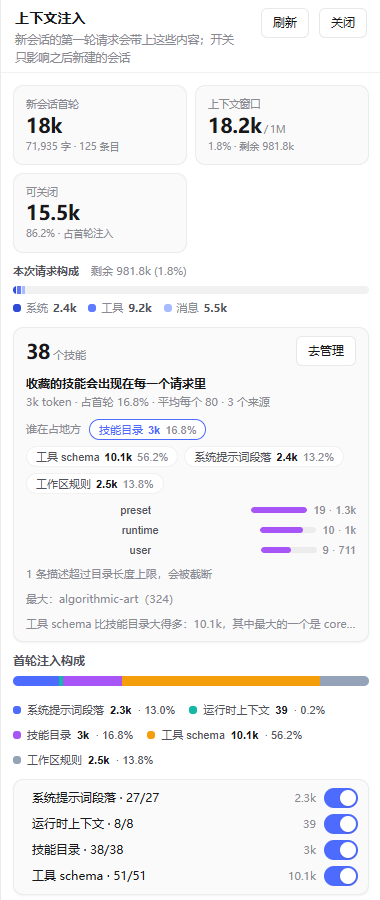
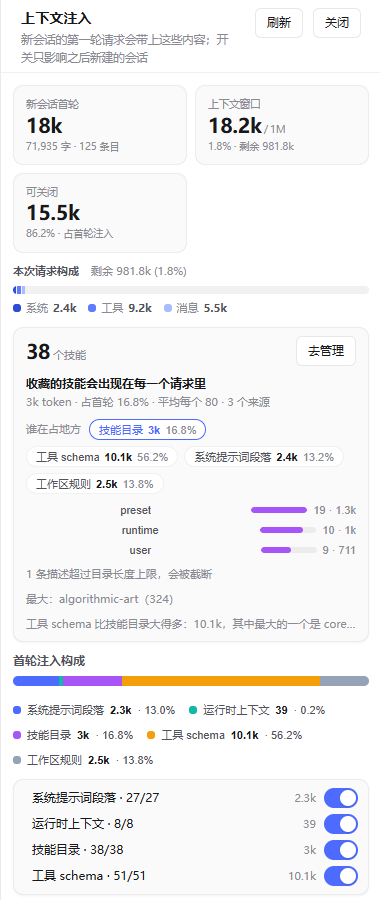
style(ui): 阅读列 1240 上限、标签行呼吸、说明列收窄 (2.2.4)
[dsh:session=cd521c01] [dida:6afcf57ae4b014475ea3a12a]

Changed region(s): [[0.0289, 0.0, 0.6079, 0.0933], [0.6947, 0.0, 0.7816, 0.0311], [0.8684, 0.0, 0.9263, 0.0311]]

diff --git a/client.js b/client.js
@@ -337,7 +337,7 @@ body[data-ds-dark-theme] .ci-root{--ci-fg:#ececf1;--ci-fg2:#b9b9c3;--ci-fg3:#8b8
 .ci-scroll{overflow:auto;min-height:0}
 .ci-scroll::-webkit-scrollbar{width:8px;height:8px}
 .ci-scroll::-webkit-scrollbar-thumb{background:var(--ci-line);border-radius:8px}
-.ci-head{display:flex;align-items:flex-start;gap:10px;padding:8px 14px 6px;border-bottom:1px solid var(--ci-line2);flex:0 0 auto}
+.ci-head{display:flex;align-items:flex-start;gap:10px;padding:8px 20px 6px;border-bottom:1px solid var(--ci-line2);flex:0 0 auto}
 .ci-head h1{font-size:14px;font-weight:600;margin:0;letter-spacing:.01em}
 .ci-head p{margin:1px 0 0;color:var(--ci-fg3);font-size:11.5px}
 .ci-head .ci-spacer{flex:1}
@@ -455,7 +455,11 @@ body[data-ds-dark-theme] .ci-root{--ci-fg:#ececf1;--ci-fg2:#b9b9c3;--ci-fg3:#8b8
 .ci-legend button{display:flex;align-items:center;gap:6px;border:0;background:transparent;color:var(--ci-fg2);font-size:11px;cursor:pointer;padding:2px 0}
 .ci-legend i{width:8px;height:8px;border-radius:3px;display:block}
 .ci-legend b{color:var(--ci-fg);font-weight:600}
-.ci-tabs{display:inline-flex;gap:2px;padding:2px;border:1px solid var(--ci-line2);background:var(--ci-card);border-radius:8px;align-self:flex-start;margin:0 20px 10px;flex:0 0 auto}
+.ci-tabs{display:inline-flex;gap:2px;padding:2px;border:1px solid var(--ci-line2);background:var(--ci-card);border-radius:8px;align-self:flex-start;margin:9px 20px 12px;flex:0 0 auto}
+/* one reading column: header, tabs and body share the same width and the same
+   20px edge, and stop growing at 1240px so a wide window does not stretch the
+   table into the window corners */
+.ci-shell{display:flex;flex-direction:column;flex:1 1 auto;min-height:0;min-width:0;width:100%;max-width:1240px;margin:0 auto}
 .ci-tabs button{border:0;background:transparent;color:var(--ci-fg2);padding:5px 13px;font-size:12px;cursor:pointer;border-radius:6px;line-height:1.6}
 .ci-tabs button:hover{color:var(--ci-fg)}
 .ci-tabs button.on{background:var(--ci-bg);color:var(--ci-fg);font-weight:600;box-shadow:0 1px 2px rgba(0,0,0,.07)}
@@ -851,10 +855,12 @@ body[data-ds-dark-theme] .ci-root{
 .ci-kpi .v{display:flex;align-items:baseline;gap:var(--ci-space-1);min-width:0}
 .ci-kpi .v .u{font-size:var(--ci-fs-micro);font-weight:500;color:var(--ci-fg3);letter-spacing:0}
 .ci-kpi-num{display:inline-flex;align-items:baseline;gap:var(--ci-space-1)}
-/* Items table gains a description column only when the panel is wide (#5) */
+/* Items table gains a description column only when the panel is wide (#5).
+   The description is capped: an uncapped fr column grew into a 500px empty
+   band on a wide window, which read as "the table is too wide". */
 .ci-about{display:none}
 @container (min-width:1100px){
-  .ci-thead,.ci-row{grid-template-columns:minmax(0,1.6fr) minmax(0,1.2fr) 96px 72px 58px 52px}
+  .ci-thead,.ci-row{grid-template-columns:minmax(0,1fr) 250px 110px 84px 64px 56px}
   .ci-about{display:block;font-size:12px;color:var(--ci-fg3);overflow:hidden;text-overflow:ellipsis;white-space:nowrap;min-width:0}
   .ci-row:hover .ci-about{color:var(--ci-fg2)}
 }
@@ -4608,78 +4614,82 @@ body[data-ds-dark-theme] .ci-root{
           'div',
           { className: 'ci-root' },
           h('style', null, STYLE),
-          head,
-          h(
-            'div',
-            { className: 'ci-tabs', role: 'tablist', 'aria-label': t('v2.tabsLabel') },
-            (v2 === true
-              ? [
-                  ['manage', t('tabManage'), t('v2.tabManageHint')],
-                  ['insights', t('v2.tabInsights'), t('v2.tabInsightsHint')],
-                  ['settings', t('tabSettings'), t('v2.tabSettingsHint')],
-                ]
-              : [
-                  ['manage', t('tabManage'), t('v2.tabManageHint')],
-                  ['settings', t('tabSettings'), t('v2.tabSettingsHint')],
-                ]
-            ).map(([key, label, hint]) =>
-              h(
-                'button',
-                {
-                  key,
-                  type: 'button',
-                  role: 'tab',
-                  id: 'ci-tab-' + key,
-                  'aria-selected': activeTab === key ? 'true' : 'false',
-                  'aria-controls': 'ci-tabpanel-' + key,
-                  tabIndex: activeTab === key ? 0 : -1,
-                  className: activeTab === key ? 'on' : '',
-                  title: hint,
-                  onClick: () => setTab(key),
-                  onKeyDown: (event) => {
-                    if (event.key !== 'ArrowRight' && event.key !== 'ArrowLeft') return
-                    const keys = v2 === true ? ['manage', 'insights', 'settings'] : ['manage', 'settings']
-                    const index = keys.indexOf(activeTab)
-                    const next = keys[(index + (event.key === 'ArrowRight' ? 1 : keys.length - 1)) % keys.length]
-                    event.preventDefault()
-                    setTab(next)
-                    const node = document.getElementById('ci-tab-' + next)
-                    if (node && typeof node.focus === 'function') node.focus()
+          // Everything that shares the reading column lives in one shell:
+          // header, tabs, page body. Capped so a very wide window does not
+          // stretch the table to the window edge.
+          h('div', { className: 'ci-shell' },
+            head,
+            h(
+              'div',
+              { className: 'ci-tabs', role: 'tablist', 'aria-label': t('v2.tabsLabel') },
+              (v2 === true
+                ? [
+                    ['manage', t('tabManage'), t('v2.tabManageHint')],
+                    ['insights', t('v2.tabInsights'), t('v2.tabInsightsHint')],
+                    ['settings', t('tabSettings'), t('v2.tabSettingsHint')],
+                  ]
+                : [
+                    ['manage', t('tabManage'), t('v2.tabManageHint')],
+                    ['settings', t('tabSettings'), t('v2.tabSettingsHint')],
+                  ]
+              ).map(([key, label, hint]) =>
+                h(
+                  'button',
+                  {
+                    key,
+                    type: 'button',
+                    role: 'tab',
+                    id: 'ci-tab-' + key,
+                    'aria-selected': activeTab === key ? 'true' : 'false',
+                    'aria-controls': 'ci-tabpanel-' + key,
+                    tabIndex: activeTab === key ? 0 : -1,
+                    className: activeTab === key ? 'on' : '',
+                    title: hint,
+                    onClick: () => setTab(key),
+                    onKeyDown: (event) => {
+                      if (event.key !== 'ArrowRight' && event.key !== 'ArrowLeft') return
+                      const keys = v2 === true ? ['manage', 'insights', 'settings'] : ['manage', 'settings']
+                      const index = keys.indexOf(activeTab)
+                      const next = keys[(index + (event.key === 'ArrowRight' ? 1 : keys.length - 1)) % keys.length]
+                      event.preventDefault()
+                      setTab(next)
+                      const node = document.getElementById('ci-tab-' + next)
+                      if (node && typeof node.focus === 'function') node.focus()
+                    },
                   },
-                },
-                label,
+                  label,
+                ),
               ),
             ),
-          ),
-          h(
-            'div',
-            {
-              className: 'ci-body grow',
-              role: 'tabpanel',
-              id: 'ci-tabpanel-' + activeTab,
-              'aria-labelledby': 'ci-tab-' + activeTab,
-              tabIndex: -1,
-            },
-            activeTab === 'manage'
-              ? h(
-                  'div',
-                  { className: 'ci-manage' },
-                  snapshot.host && snapshot.host.supported === false
-                    ? h('div', { className: 'ci-note warn' }, t('hostOld', { version: snapshot.host.version, tested: snapshot.host.tested }))
-                    : null,
-                  v2 !== true ? h(V2Gate, { snapshot, t }) : null,
-                  v2 !== true ? h(V2Gate, { snapshot, t }) : null,
-                  // 管理 is switches and one line of numbers. The ring, the
-                  // ranking and the health list all moved to 洞察.
-                  h(ManageSum, { snapshot, t, busy, onUndo }),
-                  snapshot.policy.appliedToThisAgent !== true && snapshot.policy.preview && snapshot.policy.preview.savedTokens > 0
-                    ? h('div', { className: 'ci-note warn' }, t('sessionNotApplied'))
-                    : null,
-                  h(ItemsTable, { snapshot, t, filter, setFilter, onToggle, onGroup: onGroupToggle, busy, act, v2, onOpenContent: openContent, focusSuite }),
-                )
-              : activeTab === 'insights'
-                ? h(InsightsTab, { snapshot, t, sessionId, onOpenContent: openContent, onOpenTab: openTab, onPickSuite: openSuite, act })
-                : h(SettingsPage, { snapshot, t, act, sessionId, notify: showNotice }),
+            h(
+              'div',
+              {
+                className: 'ci-body grow',
+                role: 'tabpanel',
+                id: 'ci-tabpanel-' + activeTab,
+                'aria-labelledby': 'ci-tab-' + activeTab,
+                tabIndex: -1,
+              },
+              activeTab === 'manage'
+                ? h(
+                    'div',
+                    { className: 'ci-manage' },
+                    snapshot.host && snapshot.host.supported === false
+                      ? h('div', { className: 'ci-note warn' }, t('hostOld', { version: snapshot.host.version, tested: snapshot.host.tested }))
+                      : null,
+                    v2 !== true ? h(V2Gate, { snapshot, t }) : null,
+                    // 管理 is switches and one line of numbers. The ring, the
+                    // ranking and the health list all moved to 洞察.
+                    h(ManageSum, { snapshot, t, busy, onUndo }),
+                    snapshot.policy.appliedToThisAgent !== true && snapshot.policy.preview && snapshot.policy.preview.savedTokens > 0
+                      ? h('div', { className: 'ci-note warn' }, t('sessionNotApplied'))
+                      : null,
+                    h(ItemsTable, { snapshot, t, filter, setFilter, onToggle, onGroup: onGroupToggle, busy, act, v2, onOpenContent: openContent, focusSuite }),
+                  )
+                : activeTab === 'insights'
+                  ? h(InsightsTab, { snapshot, t, sessionId, onOpenContent: openContent, onOpenTab: openTab, onPickSuite: openSuite, act })
+                  : h(SettingsPage, { snapshot, t, act, sessionId, notify: showNotice }),
+            ),
           ),
           h(Toast, { notice, t, onUndo: () => { setNotice(null); act({ kind: 'undo' }, t('undone')) } }),
           h(ContentDrawer, { target: drawer, sessionId, t, onClose: closeDrawer }),

diff --git a/CHANGELOG.md b/CHANGELOG.md
@@ -1,5 +1,31 @@
 # Changelog
 
+## 2.2.4 — 2026-11-18
+
+Spacing and width, from a screenshot of the live panel: the tab row sat 7px under the subtitle, and
+the table ran to the window edge with a 669px empty description column in the middle of it.
+
+### Changed
+
+- **The tab row breathes.** 7px above it became 16px, and the header, the tabs and the page body now
+  start on the same 20px edge (the header was at 14px).
+- **One reading column.** Header, tabs and body are wrapped in a shell capped at 1240px and centred,
+  so a 1900px window shows a 1200px table instead of an 1880px one. The composer chip, the sidebar
+  and the drawer are unaffected.
+- **The description column is capped at 250px** instead of taking 1.2fr of the row (669px at 1920).
+  Channel, tokens, share and switch got a little more room (110 / 84 / 64 / 56px).
+
+### Fixed
+
+- **2.2.3 rendered the v2 gate twice on a v1 host.** The old line survived the tab rewrite next to
+  the new one.
+
+### Verification
+
+- `node --test` 223/223; `node scripts/self-audit.mjs --strict` 7/7, 0 warnings.
+- Layout measured at 1360 / 1600 / 1920: the table is 1200px wide in all three, every row's left edge
+  is at 80px, and the subtitle-to-tabs gap is 16px.
+
 ## 2.2.3 — 2026-11-18
 
 Each panel has one job now. 管理 is a switchboard, 洞察 is an ordered diagnosis, 设置 is four
